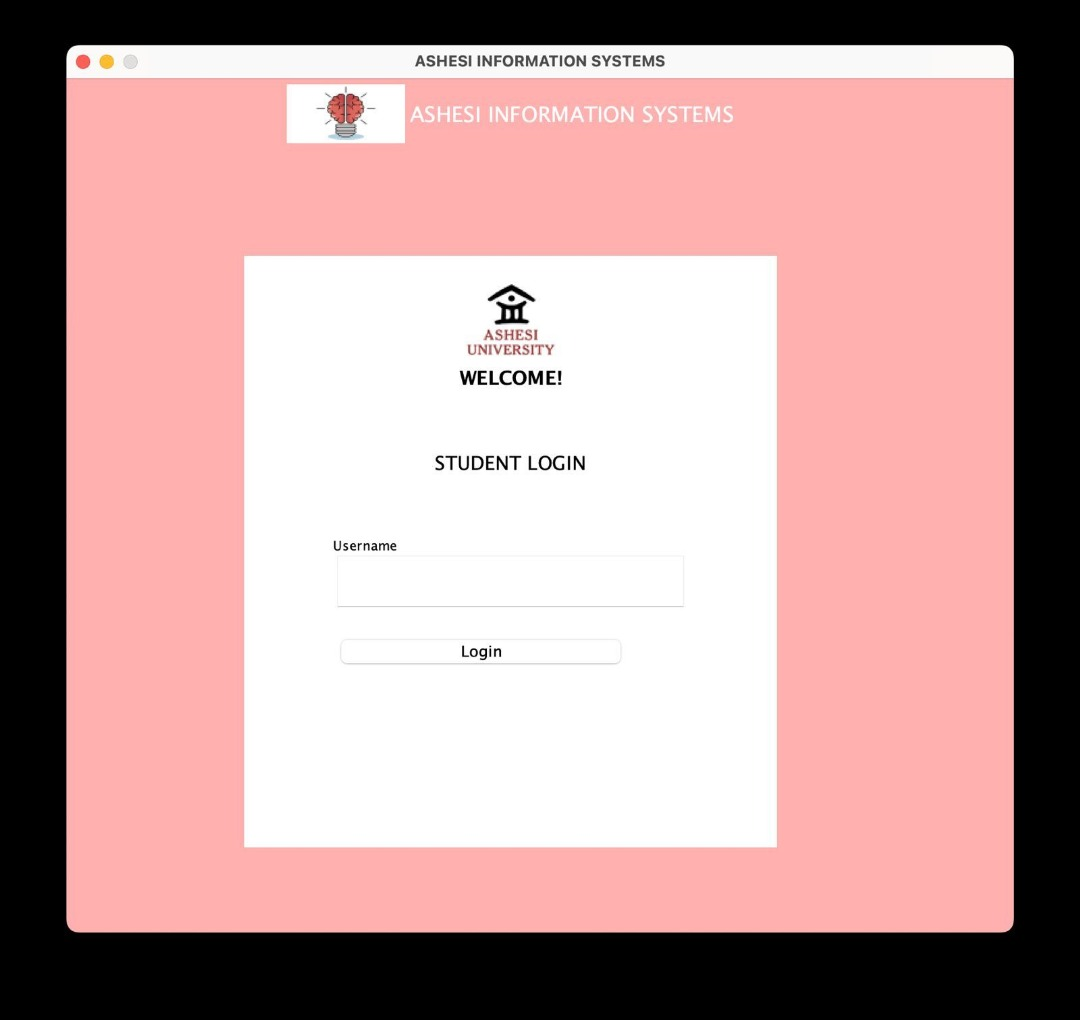
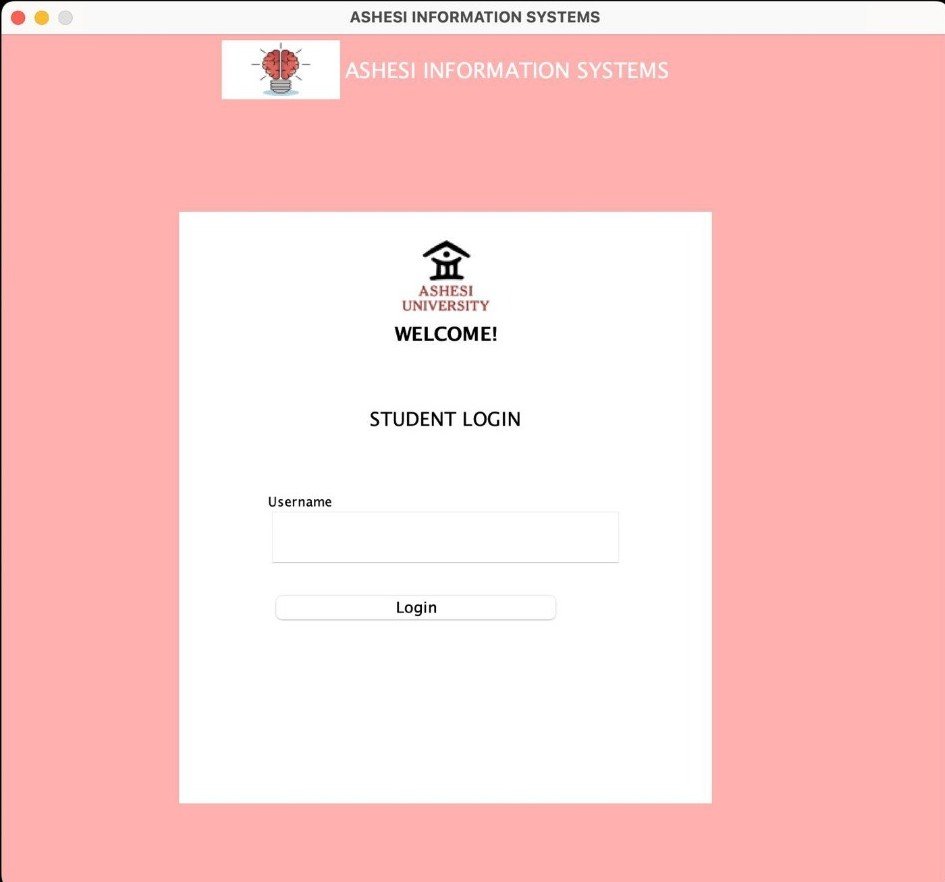
ii

diff --git a/src/config/index.ts b/src/config/index.ts
@@ -74,7 +74,7 @@ export const SITE_CONTENT: SiteContent = {
       summary: "Malware spread modeling in vehicular networks using SEIR-S framework and wireless analysis.",
       linkPreview: "/",
       linkSource: "https://github.com/shiiifa/MalwareSimulation",
-      image: "/clone-ig.png",
+      image: "/vanets.png",
     },
     {
       name: "Arduino Buzzer Timer",
